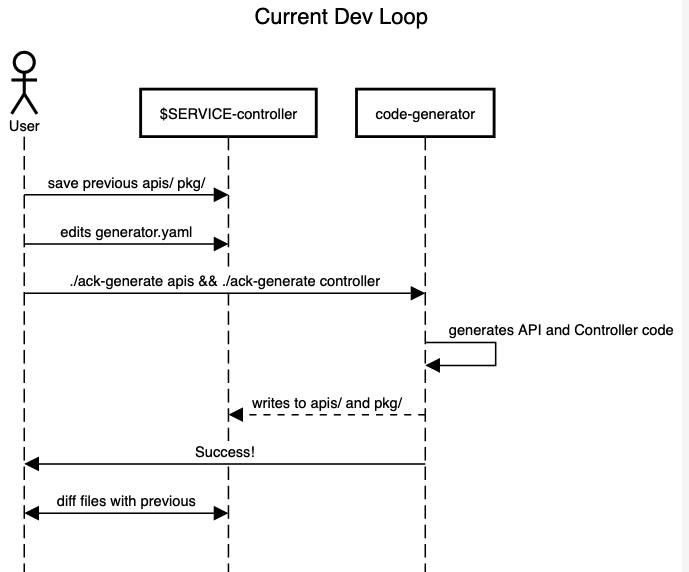
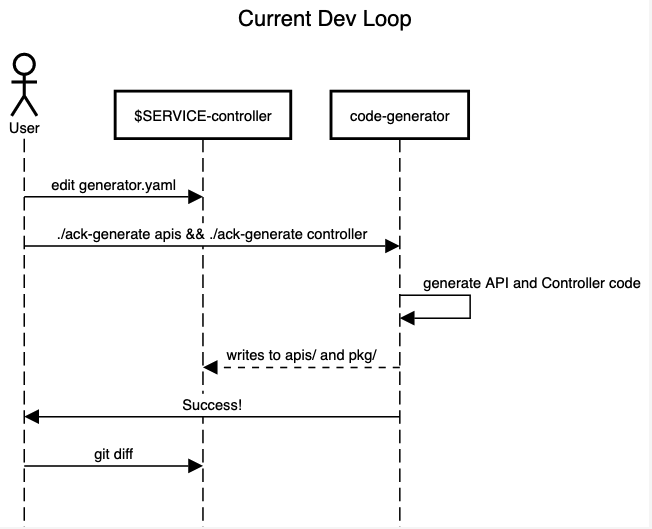
update descriptions and diagrams

Changed region(s): [[0.0, 0.0907, 0.9816, 1.0], [0.3681, 0.0, 0.6442, 0.0605]]

diff --git a/docs/design/proposals/codegen-refactor/centralize_1.md b/docs/design/proposals/codegen-refactor/centralize_1.md
@@ -24,14 +24,13 @@ The solution is to repair and realign encapsulations in `code-generator/pkg/`:
 
 
 ### Requirements
-* No impact to existing functionality
 * Code is easy to read, intuitive, and extendable
 * Naming in code is consistent (ex: Find vs. Get)
 * Navigating code is easier because pkg responsibility is clear
 
 
 ### Prerequisites
-*code-generator* contains unit tests and also runs a subset of $SERVICE-controller e2e tests against PRs. Are these comprehensive enough to detect breakage in the code that we'll be touching/refactoring? If there are gaps between tests and code being refactored, then **tests will need to be created or updated** prior to implementing the solution.
+*code-generator* contains unit tests and also runs a subset of $SERVICE-controller e2e tests against PRs. We need to identify the affected code paths and determine whether these are being covered in existing tests. If there are gaps, then **tests will need to be created or updated** prior to implementing the solution.
 
 Agree on terms for consistent code. Terms such as Get vs. Find, CRDS/Resource, etc.
 
@@ -73,7 +72,7 @@ func getSortedLateInitFieldsAndConfig(cfg *ackgenconfig.Config, r *model.CRD) ([
 // Proposed
 func (c *Config) GetLateInitFieldsAndConfig(cfg *ackgenconfig.Config, r *model.CRD) (map[string]*ackgenconfig.LateInitializeConfig, error)
 
-// Note, this simply gets the config; sorting and any processing AFTER getting config is done by the client
+Note, `Getters` will contain some "helper" logic such as sanitizing user-input and sorting, when applicable. This is safe because user-input (via `generator.yaml`) should never need to preserve order.
 
 ```
 

diff --git a/docs/design/proposals/codegen-refactor/proposal-summary.md b/docs/design/proposals/codegen-refactor/proposal-summary.md
@@ -17,7 +17,6 @@ To improve the implementation, I propose consolidating `ackconfig` access and an
 
 
 ### Requirements
-* Refactor does **not change** existing functionality
 * Code is easy to read, intuitive, and extendable
 * Code generation processes remain clear and transparent
 
@@ -46,7 +45,7 @@ By centralizing and consolidating config access and `API inference` logic, calls
 
 
 ### New command `./ack-generate model`
-With a new `model` command, the code generation can flow from a common data source which also creates opportunity for future commands:
+`model` takes `aws-sdk` and *generator.yaml* as **input**, creates and stores `ackmodel` in cache as serialized JSON, then **outputs** the cached `ackmodel` location (default: `~./cache/aws-controllers-k8s/ack-model.json`). With a new `model` command, the code generation can flow from a common data source which also creates opportunity for future commands:
 
 ![proposed-gen](./images/proposed_gen.png)
 

diff --git a/docs/design/proposals/codegen-refactor/model_cmd_2.md b/docs/design/proposals/codegen-refactor/model_cmd_2.md
@@ -31,6 +31,7 @@ Current Dev Loop
 ![current-dev-loop](./images/current_dev_loop.png)
 * Validating the result of a change in *code-generator* and/or *generator.yaml* can be a lengthy process
 * In the current feedback loop, users and contributors need to manually verify files or run lengthy e2e tests even for minor changes to `ackgenconfig`
+  * *Note, can add unit tests to $SERVICE-controller such as [elasticache-controller](https://github.com/aws-controllers-k8s/elasticache-controller/blob/main/pkg/resource/replication_group/manager_test_suite_test.go) to speed up validation.*
 
 
 ## Solution
